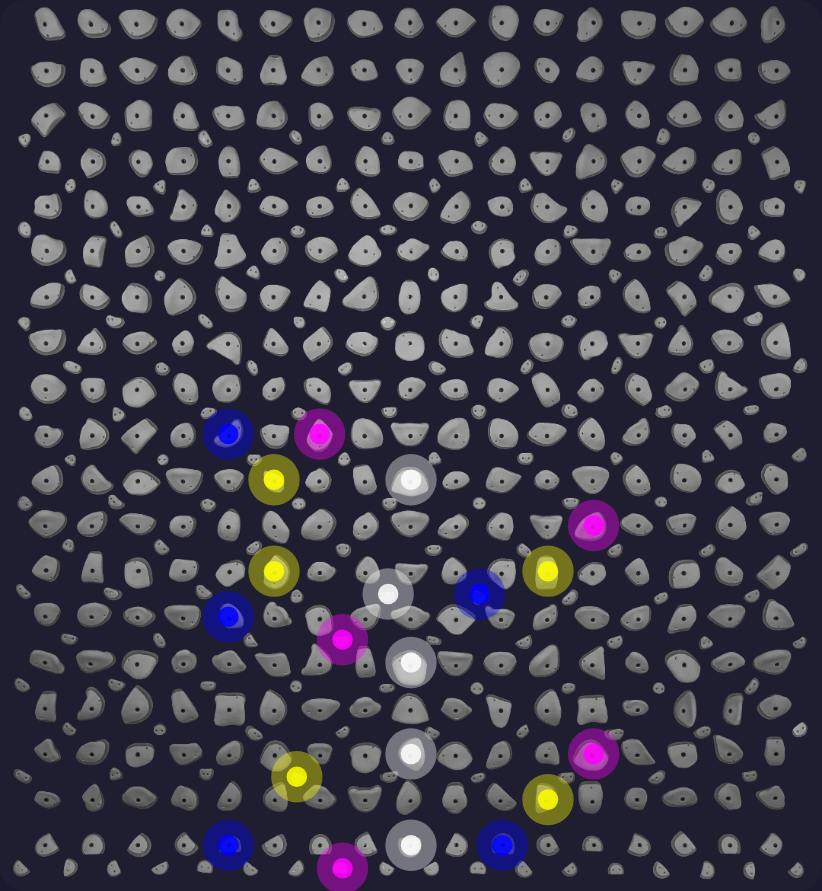
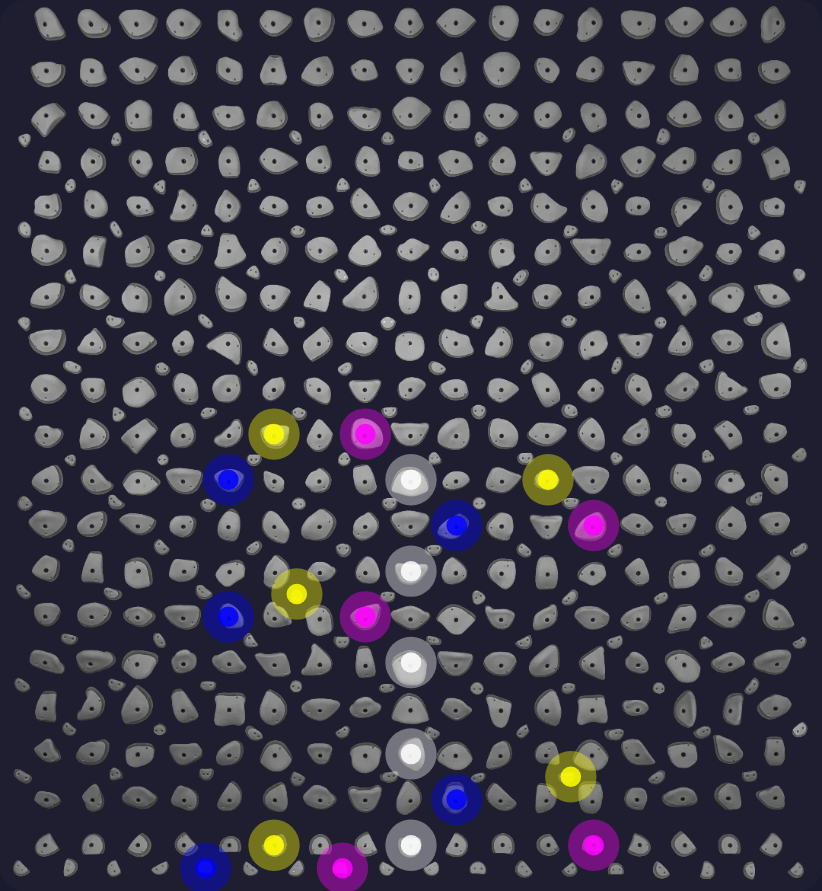
feat-0.2.5-knot: field draws keep the spacing first, new renders

diff --git a/feat-0.2.5-knot/2026-11-17-field-draws.md b/feat-0.2.5-knot/2026-11-17-field-draws.md
@@ -1,6 +1,6 @@
 # Knot: spacing sets the reach, and a fresh field every game
 
-Knot ([#154](https://github.com/CruxCoach/CruxCoach/issues/154), [PR #155](https://github.com/CruxCoach/CruxCoach/pull/155)), commit `b22a34be5`, 2026-11-17.
+Knot ([#154](https://github.com/CruxCoach/CruxCoach/issues/154), [PR #155](https://github.com/CruxCoach/CruxCoach/pull/155)), commit `b22a34be5`, 2026-11-17; renders updated for commit `91d93d56b` (spacing first, see the end).
 
 ## Spacing sets the reach
 
@@ -51,7 +51,17 @@ The board preview as the app draws it, dark theme. Each pair is two games in a r
 ### Wide, 4 climbers (9 stripes)
 ![Wide, 4 climbers, game 1](2026-11-17-field-draws/wide-4-game1.png) ![Wide, 4 climbers, game 2](2026-11-17-field-draws/wide-4-game2.png)
 
+## Update: the spacing comes first (commit `91d93d56b`)
+
+The first renders had spots of one colour on neighbouring holds: two magenta hand spots about 14 cm apart (wide, 2 climbers, game 2) and two magenta foot spots about 20 cm apart (close, 4 climbers, game 1). The cause was the fallback: when no free hold kept the 30 cm, the draw took any free hold, and only fairness ranked the 24 draws.
+
+- The spacing now gives way last. A drawn spot would rather take one of the hardest holds than a hold next to another spot. Where no free hold keeps the spacing, it takes the one farthest from the spots so far.
+- No draw may put two spots closer together than the nearest-hold field does. Of the rest, the draw with the fewest spots too close to another wins, then the fairest one. Should no draw manage that, the nearest holds light.
+- A test checks a first game and the following one for the 7x10, 12x12, 16x12 and both MoonBoards, in every spacing and number of climbers, over four seeds.
+
+In the renders above, now drawn this way, the closest two spots are 28 cm apart (one 8-inch grid step and a half). The exception is close with 4 climbers, game 2, at 20 cm. There the nearest-hold field has a 20 cm pair too: 16 foot spots in narrow stripes don't fit 30 cm apart on the kickboard.
+
 ## Still open
 
-- The phone and simulator check of this build.
-- One round on a real Kilter board.
+- A game on the phone with the Kilter catalogue loaded (time to build the field, two games in a row).
+- One round on a real Kilter board, on the release build after the merge.
